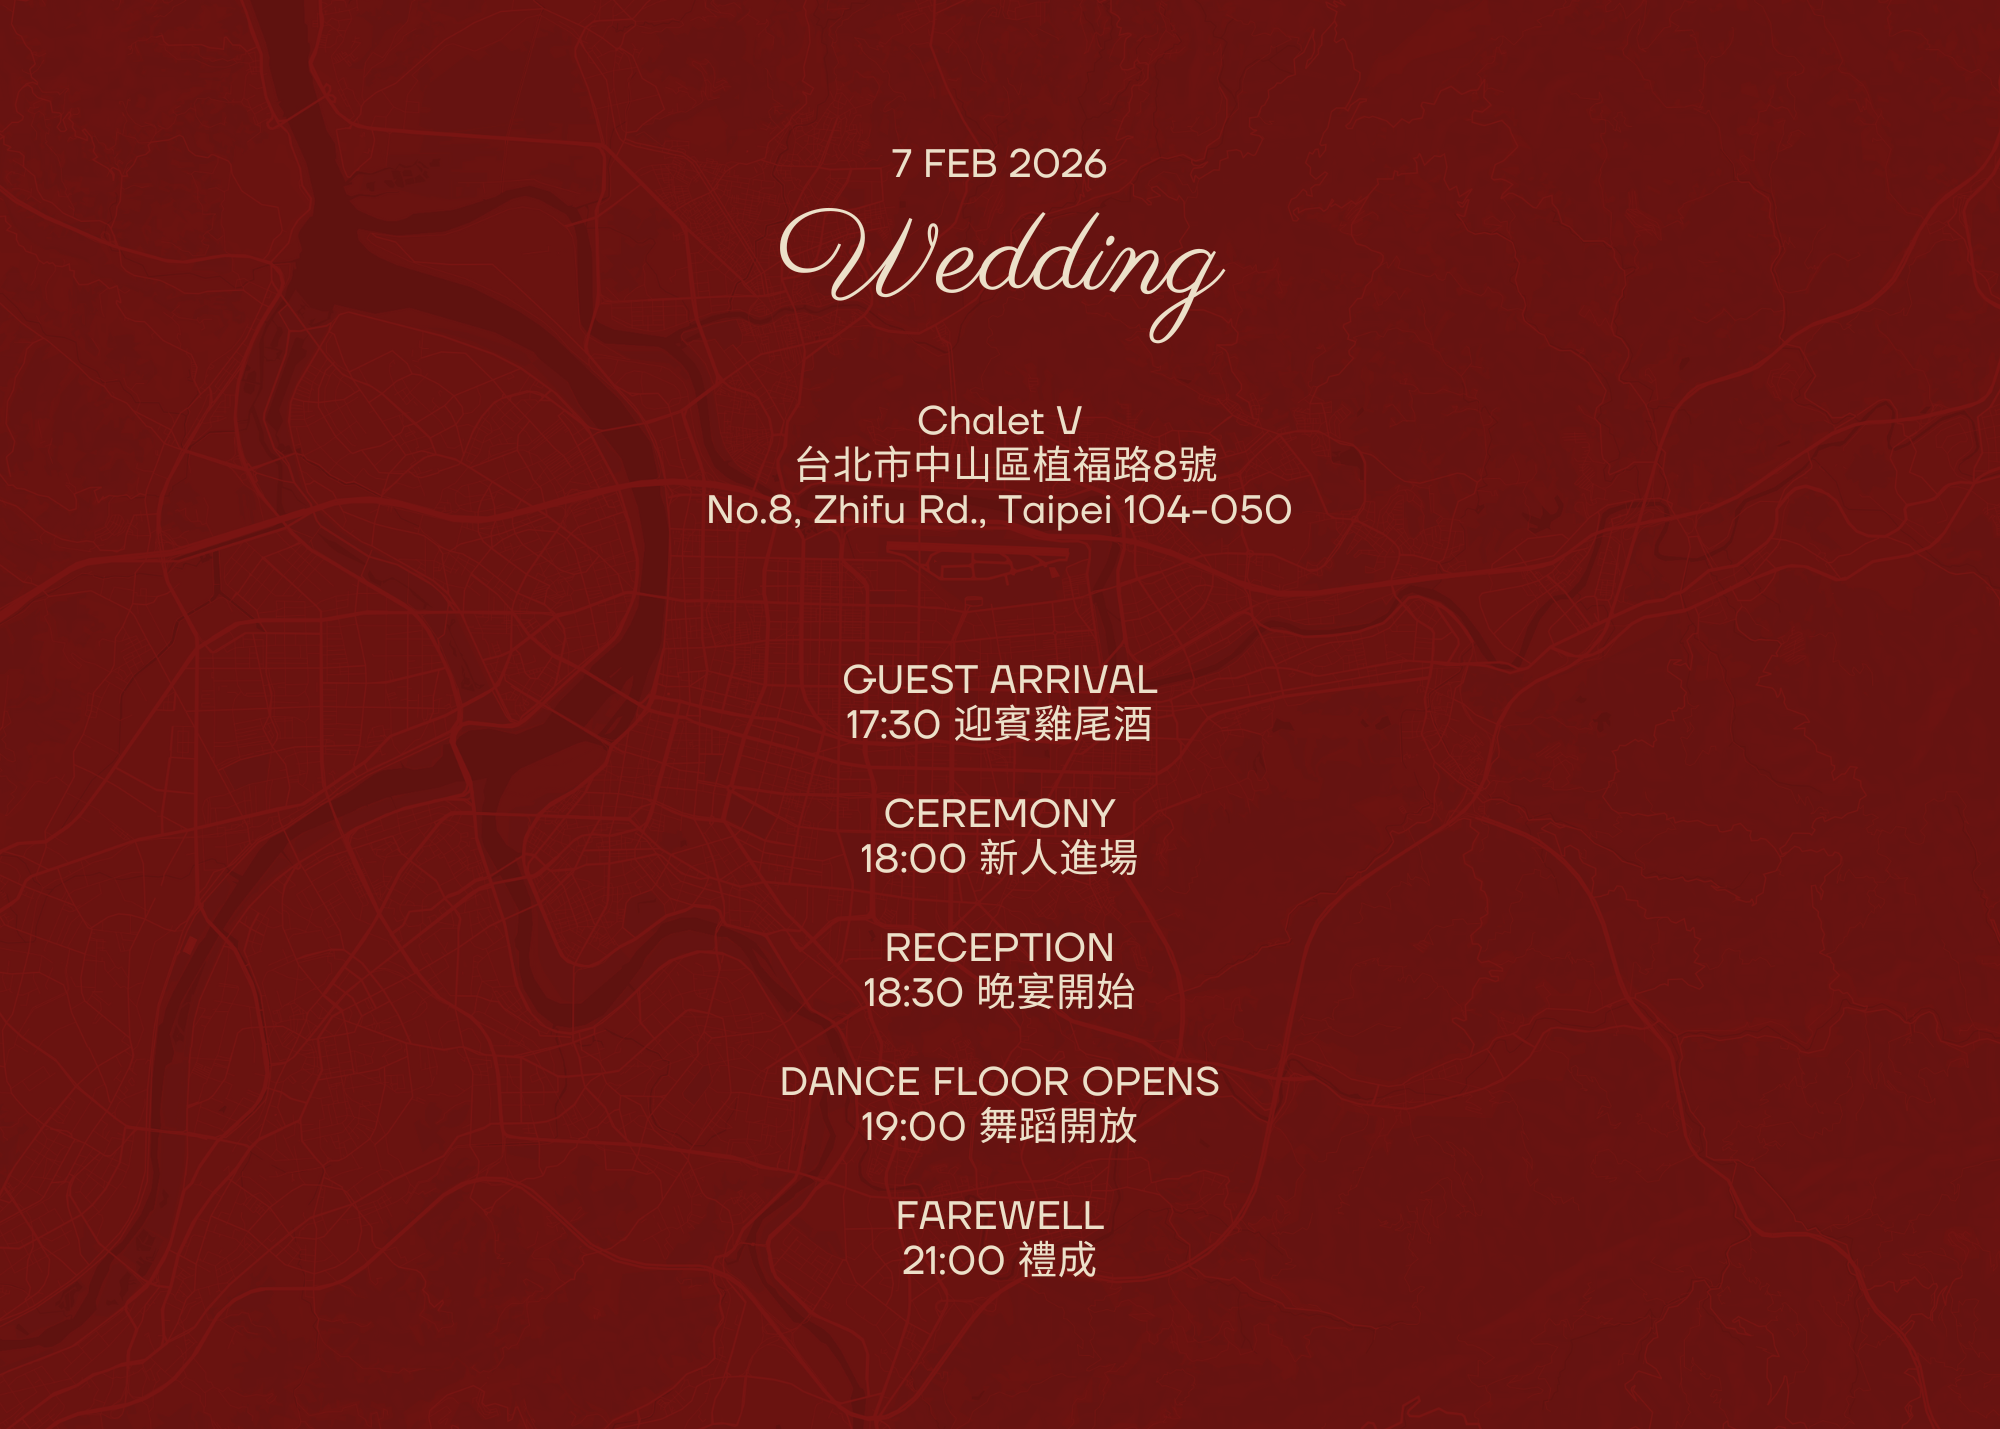
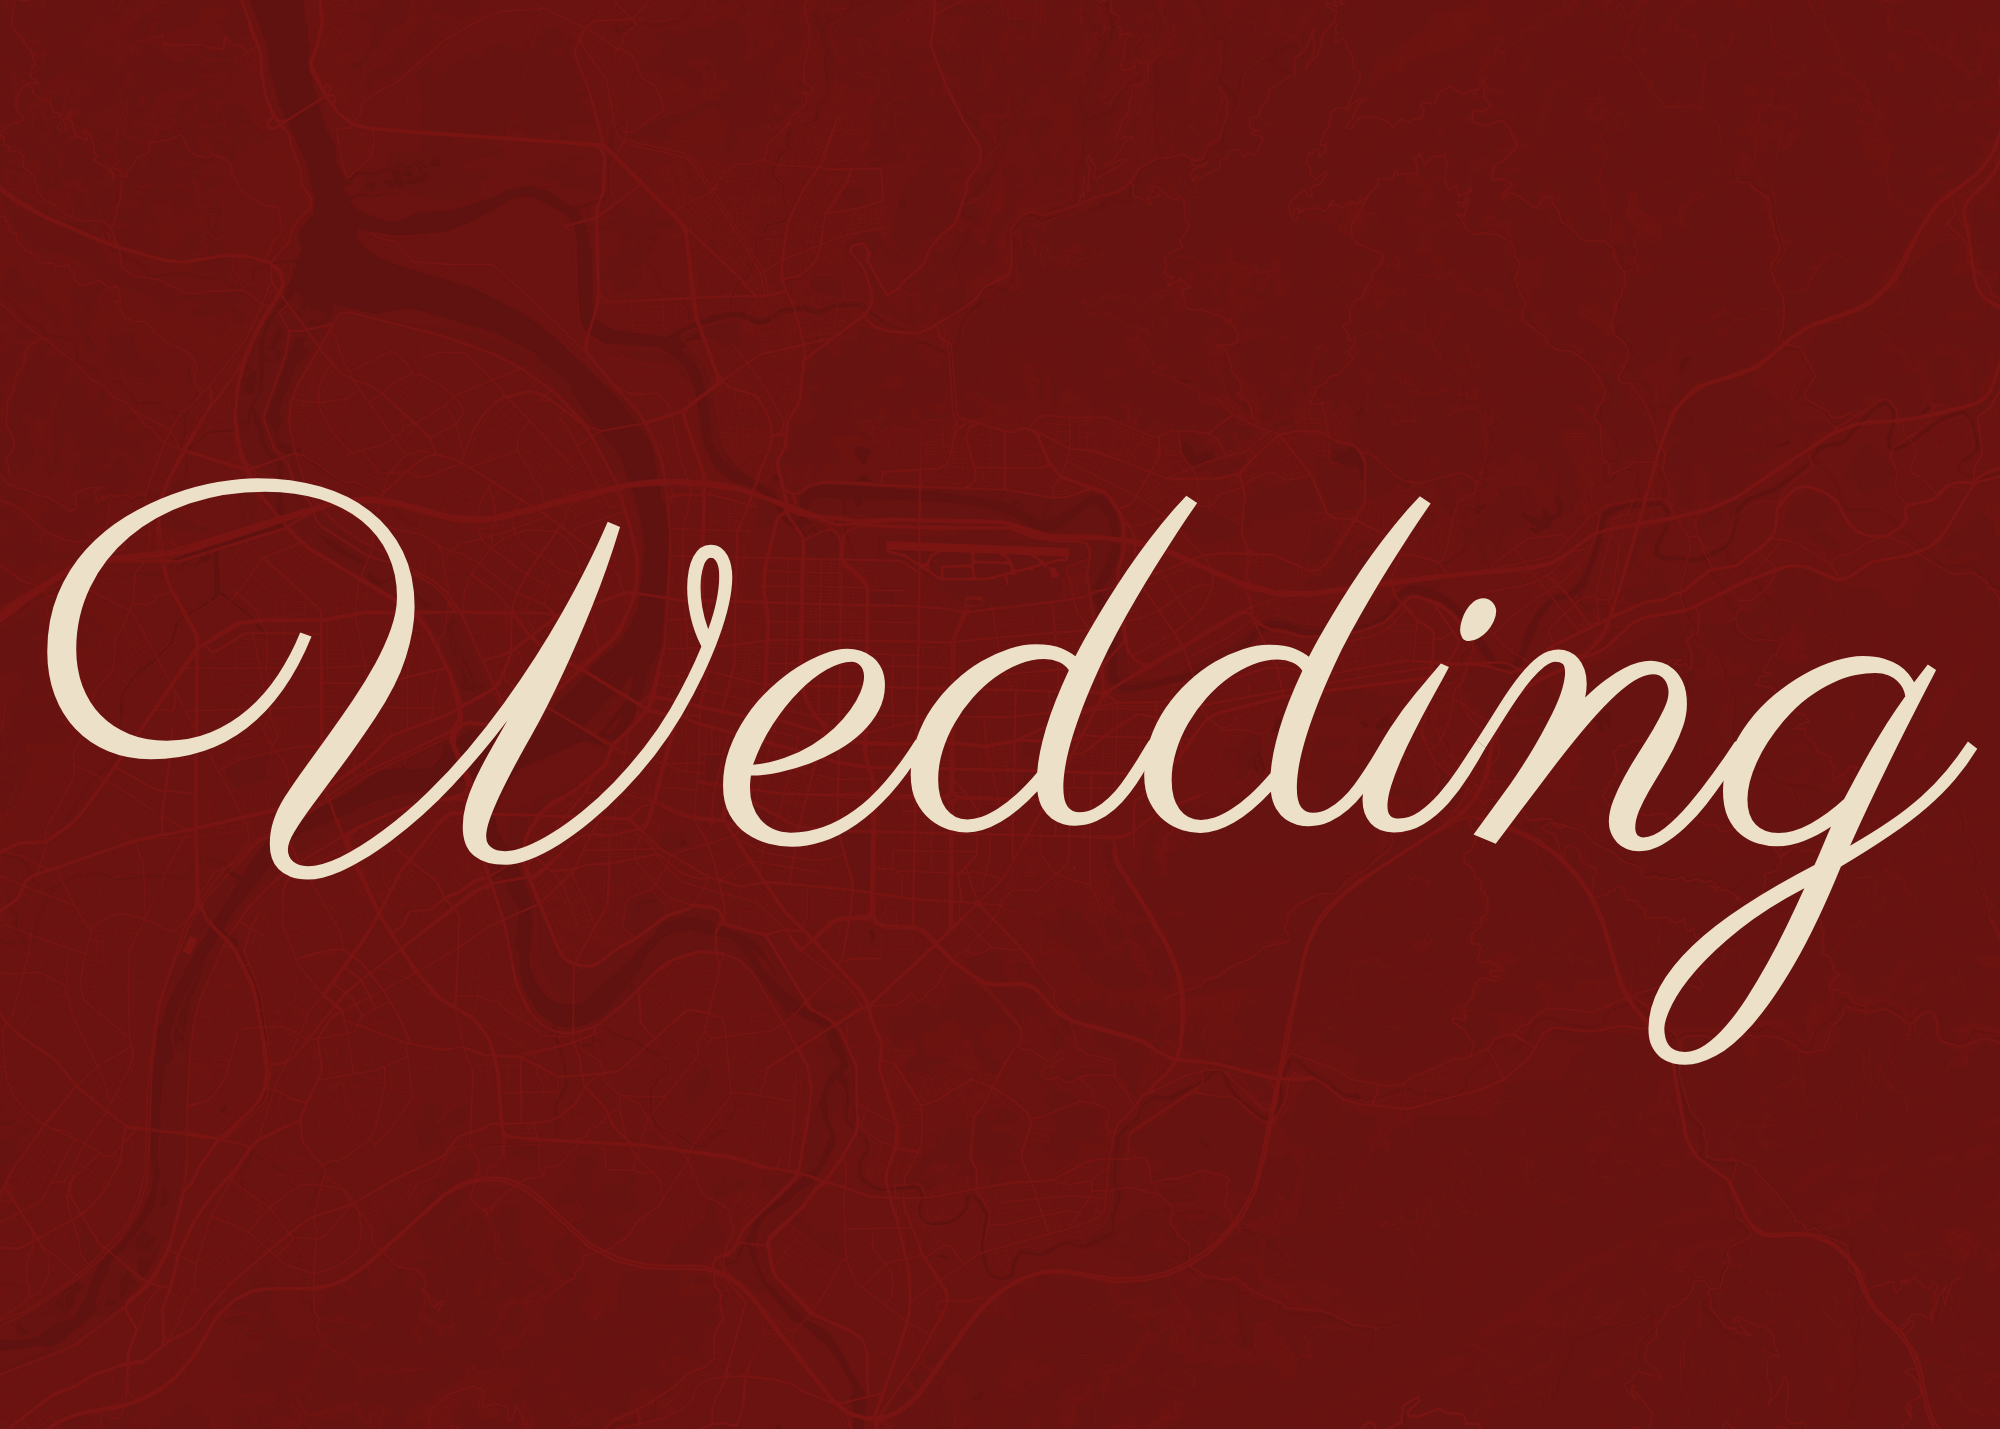
Add files via upload

diff --git a/index.html b/index.html
@@ -19,10 +19,18 @@
 
         <section class="screen">
             <img src="9.png" alt="Screen 1">
+            <p class="fade-in">6 Feb 2026</p>
+            <p class="fade-in">Our gift to you</p>
+            <p class="fade-in">30 spots available</p>
+            <p class="fade-in">RSVP to confirm your spot</p>
         </section>
 
         <section class="screen">
             <img src="10.png" alt="Screen 1">
+            <p class="fade-in">7 Feb 2026</p>
+            <p class="fade-in">Chalet V</p>
+            <p class="fade-in">台北市中山區植福路8號</p>
+            <p class="fade-in">No.8, Zhifu Rd., Taipei 104-050</p>
         </section>
         
         <section class="screen">
@@ -31,6 +39,13 @@
 
         <section class="screen">
             <img src="12.png" alt="Screen 1">
+        </section>
+
+        <section class="screen">
+            <img src="13.png" alt="Screen 1">
+            <p class="fade-in">9 Feb 2026 thru 12 Feb 2026</p>
+            <p class="fade-in">台北市中山區植福路8號</p>
+            <p class="fade-in">No.8, Zhifu Rd., Taipei 104-050</p>
         </section>
 
         <section class="screen">
@@ -53,7 +68,7 @@
         <section class="pic">
             <img src="pic.jpg" alt="Screen 6">
         </section>
-        
+
         <section class="screen">
             <img src="room-block.png" alt="Screen 7">
             <p class="fade-in"><a href="https://maps.app.goo.gl/6sUGEPSQ9WDKGwFA9" target="_blank">DoubleTree by Hilton Schenectady Downtown</a></p>

diff --git a/styles.css b/styles.css
@@ -3,7 +3,7 @@ body {
     padding: 0;
     background-color: #6b1210;
     font-family: "Radio Canada", sans-serif;
-    color: #51102E;
+    color: #ece0c9;
     overflow-x: hidden;
     scroll-behavior: smooth;
 }
@@ -36,7 +36,7 @@ body {
 .screen p {
     margin-top: -10px;
     font-size: 1.5rem;
-    color: #808080;
+    color: #ece0c9;
     margin-left: 20px;  /* Adjust as needed */
     margin-right: 20px; /* Adjust as needed */
 }
